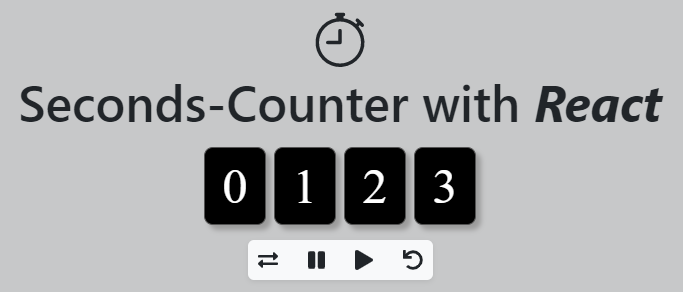
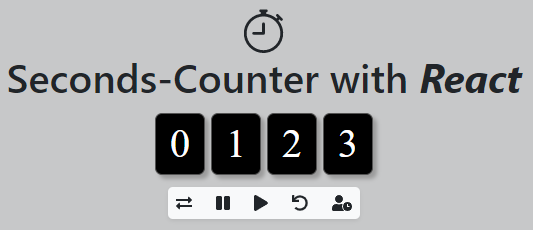
feat: add alarm option

diff --git a/src/js/component/ModalWindow.jsx b/src/js/component/ModalWindow.jsx
@@ -1,0 +1,42 @@
+import React from "react";
+import { SetAlarm } from "../index";
+
+const ModalWindow = () => {
+	return (
+		<div className="modal" id="alarm-modal">
+			<div className="modal-dialog">
+				<div className="modal-content">
+					<div className="modal-header py-2 px-3 border-1">
+						<h5 className="modal-title">Add alarm</h5>
+						<button
+							type="button"
+							className="btn-close btn-sm"
+							data-bs-dismiss="modal"
+							aria-label="Close"></button>
+					</div>
+					<div className="modal-body d-flex flex-wrap justify-content-start align-items-center gap-2">
+						<p className="m-0">
+							Notify me when the counter value is
+						</p>
+						<input
+							type="number"
+							id="alarm-seconds"
+							className="form-control form-control-sm shadow-none w-auto"
+						/>
+					</div>
+					<div className="modal-footer border-0 justify-content-start pt-0">
+						<button
+							type="button"
+							className="btn btn-dark"
+							data-bs-dismiss="modal"
+							onClick={SetAlarm}>
+							<strong>Set</strong> alarm
+						</button>
+					</div>
+				</div>
+			</div>
+		</div>
+	);
+};
+
+export default ModalWindow;

diff --git a/src/js/index.js b/src/js/index.js
@@ -1,4 +1,4 @@
-//import react into the bundle
+// import react into the bundle
 import React from "react";
 import ReactDOM from "react-dom";
 
@@ -9,8 +9,13 @@ import "../styles/bootstrap.min.css";
 // import main component
 import Home from "./component/home.jsx";
 
-// counter status control
+// counter control
 let countdown = false;
+const alarm = {
+	status: false,
+	seconds: null,
+};
+
 const pause = 1;
 const play = 2;
 const reset = 3;
@@ -29,6 +34,11 @@ setInterval(() => {
 			: CounterStatus === reset
 			? 0
 			: counter;
+
+	/* check alarm */
+	if (alarm.status && parseInt(alarm.seconds) === counter) {
+		alert(`${alarm.seconds} seconds alarm!!`);
+	}
 
 	MainRender();
 }, 1000);
@@ -55,4 +65,12 @@ const ResetCounter = () => {
 	CounterStatus = reset;
 };
 
-export { ChangeDirection, PauseCounter, PlayCounter, ResetCounter };
+const SetAlarm = () => {
+	const Alarmvalue = document.querySelector("#alarm-seconds").value;
+	if (Alarmvalue.length > 0) {
+		alarm.status = !alarm.status;
+		alarm.seconds = Alarmvalue;
+	}
+};
+
+export { ChangeDirection, PauseCounter, PlayCounter, ResetCounter, SetAlarm };

diff --git a/src/js/component/home.jsx b/src/js/component/home.jsx
@@ -3,6 +3,7 @@ import PropTypes from "prop-types";
 
 import SecondsCounter from "./SecondsCounter.jsx";
 import CounterControls from "./CounterControls.jsx";
+import ModalWindow from "./ModalWindow.jsx";
 
 const Home = (props) => {
 	return (
@@ -21,7 +22,7 @@ const Home = (props) => {
 							<path d="M6.5 1A.5.5 0 0 1 7 .5h2a.5.5 0 0 1 0 1v.57c1.36.196 2.594.78 3.584 1.64a.715.715 0 0 1 .012-.013l.354-.354-.354-.353a.5.5 0 0 1 .707-.708l1.414 1.415a.5.5 0 1 1-.707.707l-.353-.354-.354.354a.512.512 0 0 1-.013.012A7 7 0 1 1 7 2.071V1.5a.5.5 0 0 1-.5-.5zM8 3a6 6 0 1 0 .001 12A6 6 0 0 0 8 3z" />
 						</svg>
 
-						<h1 className="text-center mt-1">
+						<h1 className="text-center">
 							Seconds-Counter with{" "}
 							<strong>
 								<i>React</i>
@@ -31,6 +32,7 @@ const Home = (props) => {
 
 					<SecondsCounter seconds={props.counter} />
 					<CounterControls />
+					<ModalWindow />
 				</div>
 			</div>
 		</div>

diff --git a/src/js/component/CounterControls.jsx b/src/js/component/CounterControls.jsx
@@ -12,6 +12,7 @@ import {
 	faPause,
 	faPlay,
 	faUndo,
+	faUserClock,
 } from "@fortawesome/free-solid-svg-icons";
 
 const CounterControls = () => {
@@ -37,6 +38,12 @@ const CounterControls = () => {
 					title="Restart counter"
 					icon={faUndo}
 					onClick={ResetCounter}
+				/>
+				<FontAwesomeIcon
+					title="Set alarm"
+					icon={faUserClock}
+					data-bs-toggle="modal"
+					data-bs-target="#alarm-modal"
 				/>
 			</div>
 		</div>

diff --git a/README.md b/README.md
@@ -6,6 +6,8 @@
 ✏ *Creating a seconds-counter component that displays how many seconds have passed since the website finished loading. Inspired in ***./preview.gif****.
 
 ⏱ The user can ***pause***, ***resume***, ***restart*** or ***change direction*** the counter.
+👽 The user can create an alert to be notified when the counter reaches the specified seconds.
+
 
 ## Preview 🎬
 * You can open this repository in **Gitpod**.
